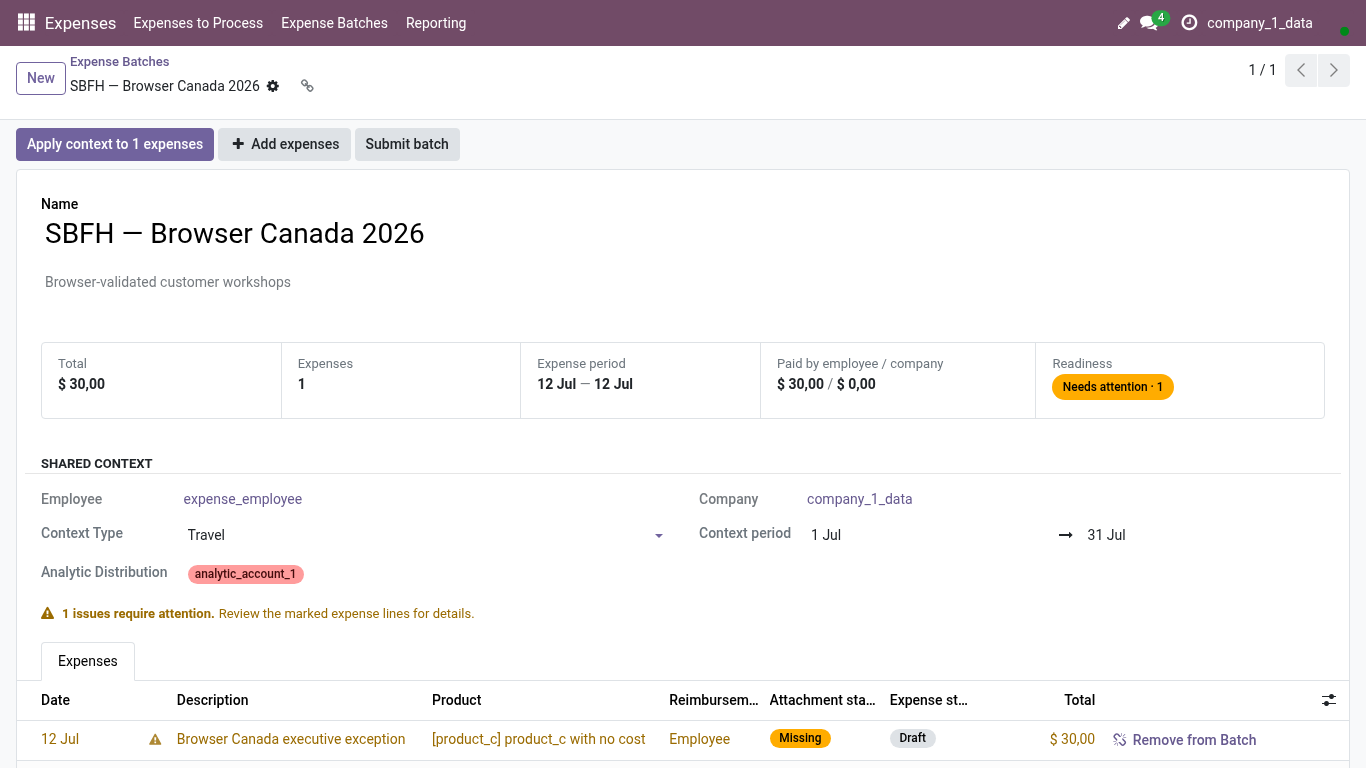
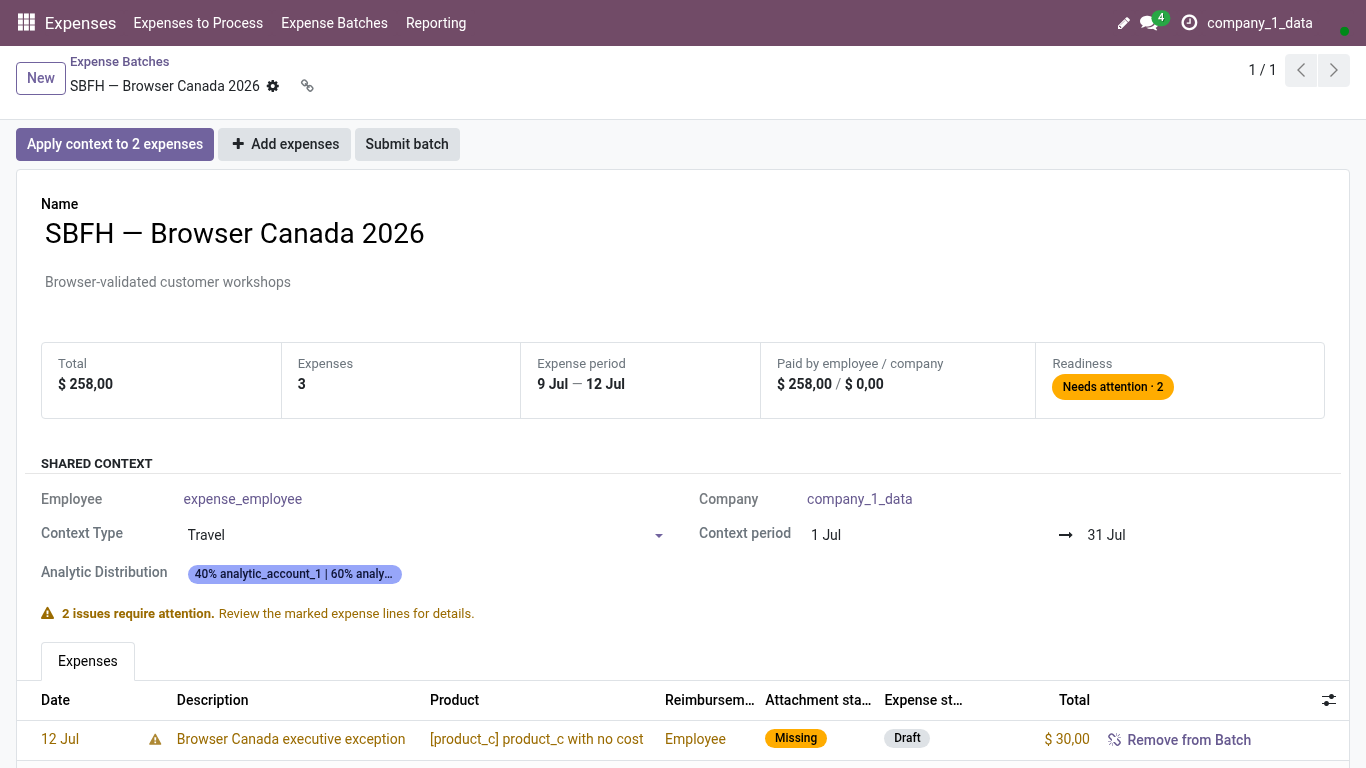
docs(expenses): Explain when batch context updates expenses
Make the illustrated French and English guides explicit about the preview and confirmation. Keep the previous guide address and point readers to the appropriate tested journey.

Validation:
- Six expense tests and both focused guides passed on the 169-module synthetic distribution. The French creation tour, documentation checks, native guide searches, desktop and mobile viewer, and runtime action inventory passed.

AI-generated commit

diff --git a/custom-addons/usl_expense_batch/static/tests/tours/expense_batch_tour.js b/custom-addons/usl_expense_batch/static/tests/tours/expense_batch_tour.js
@@ -146,6 +146,23 @@ registry.category("web_tour.tours").add("usl_expense_batch_focused_review", {
             content: "The context action explains its safe preview behavior",
             trigger:
                 `button[name='action_open_context_wizard'][data-tooltip*='${localized("Line-specific choices remain unchanged", "Les choix propres à une dépense restent inchangés")}']`,
+            run: "click",
+        },
+        {
+            id: "context_preview",
+            content: "The preview separates one change, one exception and one locked expense",
+            trigger: ".o_dialog .o_form_view:has([name='changed_count']:contains('1')):has([name='exception_count']:contains('1')):has([name='skipped_count']:contains('1'))",
+        },
+        {
+            id: "context_confirm",
+            content: "Confirm the update to the eligible draft",
+            trigger: ".o_dialog footer button[name='action_apply']",
+            run: "click",
+        },
+        {
+            id: "context_applied",
+            content: "After applying, the preview closes and the batch is visible again",
+            trigger: ".o_web_client:not(:has(.modal.show)) .o_usl_batch_summary",
         },
         {
             id: "exception",
@@ -161,7 +178,7 @@ registry.category("web_tour.tours").add("usl_expense_batch_focused_review", {
         },
         {
             id: "remove",
-            content: "Removal is the single explicit line action",
+            content: "A draft can be detached from the Batch",
             trigger:
                 ".o_field_widget[name='expense_ids'] button[name='action_return_from_batch']",
         },
@@ -300,10 +317,17 @@ registry.category("usl_docs.journeys").add("usl_expense_batch_focused_review", {
             screenshot: true,
         },
         analytics: {
-            text: "The analytic distribution of the Batch is shared by its lines. Change it here and every line that follows the Batch follows the change.",
+            text: "Save the new analytic distribution under **Shared context**. Its existing expenses keep their current values until you apply the context.",
         },
         context_action: {
-            text: "**Apply context** previews what would change before it changes anything; a line with its own explicit choice is left alone.",
+            text: "Choose **Apply context to … expenses** to open the preview.",
+        },
+        context_preview: {
+            text: "Review which drafts will change. Expenses already submitted or approved keep their values, as do drafts with their own allocation unless an authorized reviewer selects them for replacement.",
+            screenshot: true,
+        },
+        context_confirm: {
+            text: "Choose **Apply shared context** to update the eligible drafts.",
         },
         exception: {
             text: "A line that differs from the Batch is marked with a short helper saying what differs. Open the line to align it, or leave it when the difference is intended.",
@@ -312,7 +336,7 @@ registry.category("usl_docs.journeys").add("usl_expense_batch_focused_review", {
         },
         no_trash: { text: "Nothing in the list deletes an expense." },
         remove: {
-            text: "**Remove from Batch** is the only line action: the expense goes back to your work list unchanged, ready for another Batch.",
+            text: "Use **Remove from Batch** on a draft to return it to your expense list. You can add it to another batch.",
         },
     },
 });
@@ -373,7 +397,7 @@ const french = registry.category("usl_docs.journey_translations");
 
 french.add("usl_expense_batch_create_or_select.fr", {
     id: "regrouper-des-depenses-en-lot",
-    title: "Regrouper les dépenses d’un déplacement",
+    title: "Créer ou choisir un lot de dépenses",
     description: "Réunissez les dépenses d’un même déplacement dans un lot, même si certaines ont été réglées par la société et d’autres par le salarié.",
     app: "Dépenses",
     steps: {
@@ -409,8 +433,10 @@ french.add("usl_expense_batch_focused_review.fr", {
     app: "Dépenses",
     steps: {
         batch: "Dans **Dépenses > Lots de dépenses**, ouvrez votre lot. Le récapitulatif distingue les avances du salarié des frais de la société. L’onglet **Dépenses** en donne le détail.",
-        analytics: "Vérifiez la répartition analytique du lot. Une modification s’applique aux lignes qui reprennent cette répartition.",
-        context_action: "Avec **Appliquer le contexte**, consultez l’aperçu avant de confirmer. Une ligne avec une affectation particulière conserve votre choix, sauf si vous demandez son remplacement.",
+        analytics: "Dans **Contexte commun**, enregistrez la nouvelle répartition analytique. Les dépenses existantes gardent leurs valeurs tant que vous n’appliquez pas le contexte.",
+        context_action: "Cliquez sur **Appliquer le contexte à … notes de frais** pour ouvrir l’aperçu.",
+        context_preview: "Vérifiez quels brouillons vont changer. Les dépenses déjà soumises ou approuvées gardent leurs valeurs, comme les brouillons qui ont leur propre répartition, sauf si un responsable les sélectionne pour la remplacer.",
+        context_confirm: "Dans l’aperçu, confirmez l’application du contexte commun pour mettre à jour les brouillons concernés.",
         exception: "Un repère signale une ligne dont l’affectation diffère. Survolez-le pour lire la différence. Ouvrez la ligne pour la corriger si nécessaire.",
         no_trash: "Vous pouvez corriger la composition du lot en conservant les dépenses.",
         remove: "Cliquez sur **Retirer du lot** pour remettre la dépense dans votre liste. Elle pourra rejoindre un autre lot.",

diff --git a/custom-addons/usl_expense_batch/tests/test_expense_batch_tour.py b/custom-addons/usl_expense_batch/tests/test_expense_batch_tour.py
@@ -184,13 +184,44 @@ class TestExpenseBatchBrowser(TestExpenseCommon, HttpCase):
         )
         self.assertEqual(self.receipt_expense.payment_mode, "own_account")
 
+    def _prepare_focused_batch_review(self):
+        inherited = self.expenses[0]
+        approved = self.receipt_expense
+        employee = self.expense_user_employee
+        approved.with_user(employee).action_submit()
+        approved.with_user(self.expense_user_manager).action_approve()
+        self.assertEqual(approved.state, "approved")
+        batch = self.batch.with_user(employee)
+        batch.add_expenses((inherited | approved).ids)
+        batch.write({
+            "analytic_distribution": {
+                str(self.analytic_account_1.id): 40.0,
+                str(self.analytic_account_2.id): 60.0,
+            },
+        })
+        self.assertEqual(inherited.analytic_distribution, {str(self.analytic_account_1.id): 100.0})
+        self.assertEqual(inherited.batch_context_status, "stale")
+        preview = batch.preview_context_application()
+        self.assertEqual((preview["changed"], preview["exceptions"], preview["skipped"]), (1, 1, 1))
+        self.assertEqual(inherited.analytic_distribution, {str(self.analytic_account_1.id): 100.0})
+        return inherited, approved
+
+    def _assert_focused_batch_review_applied(self, inherited, approved):
+        self.assertEqual(inherited.analytic_distribution, self.batch.analytic_distribution)
+        self.assertEqual(inherited.batch_context_revision, self.batch.context_revision)
+        self.assertEqual(self.exception_expense.analytic_distribution, {str(self.analytic_account_2.id): 100.0})
+        self.assertEqual(approved.analytic_distribution, {str(self.analytic_account_1.id): 100.0})
+        self.assertEqual(approved.state, "approved")
+
     def test_focused_batch_review_tour(self):
+        inherited, approved = self._prepare_focused_batch_review()
         action = self.env.ref("usl_expense_batch.action_expense_batches")
         self.start_tour(
             f"/odoo/action-{action.id}/{self.batch.id}",
             "usl_expense_batch_focused_review",
             login=self.expense_user_employee.login,
         )
+        self._assert_focused_batch_review_applied(inherited, approved)
 
     def test_submit_approve_and_post_role_handoff_tour(self):
         action = self.env.ref("usl_expense_batch.action_expense_batches")

diff --git a/custom-addons/usl_expense_batch/tests/test_expense_batch_journeys.py b/custom-addons/usl_expense_batch/tests/test_expense_batch_journeys.py
@@ -48,12 +48,14 @@ class TestExpenseBatchJourneys(TestExpenseBatchBrowser, JourneyCase):
         self.assertEqual(self.receipt_expense.sudo().message_main_attachment_id, self.receipt_attachment)
 
     def test_review_a_batch_before_submitting(self):
+        inherited, approved = self._prepare_focused_batch_review()
         self.run_journey(
             "usl_expense_batch_focused_review",
             f"{BATCHES}/{self.batch.id}",
             login=self.expense_user_employee.login,
             screen=BATCHES,
         )
+        self._assert_focused_batch_review_applied(inherited, approved)
 
     def test_post_an_approved_batch(self):
         batch = self.lifecycle_batch

diff --git a/docs/users/how-to/expense-batches.md b/docs/users/how-to/expense-batches.md
@@ -1,10 +1,10 @@
 ---
-title: Regrouper et contrôler des dépenses dans un lot
+title: Comprendre le contexte et le suivi d’un lot
 type: how-to
-description: Créer ou choisir un lot, appliquer le contexte commun, contrôler les lignes signalées et soumettre ensemble.
+description: Comprendre le contexte partagé, les dépenses verrouillées, les payeurs et l’archivage d’un lot.
 lang: fr
 persona: employee
-app: Expenses
+app: Dépenses
 models:
   - usl.expense.batch
   - hr.expense
@@ -14,11 +14,16 @@ source:
 generated: false
 ---
 
-# Lots de dépenses
+# Comprendre le contexte et le suivi d’un lot
 
-[Créer un lot de dépenses pas à pas](regrouper-des-depenses-en-lot.md).
+Pour suivre les étapes, ouvrez les guides
+[Créer ou choisir un lot](regrouper-des-depenses-en-lot.md) et
+[Vérifier un lot avant de le soumettre](verifier-un-lot-avant-envoi.md).
+En anglais, consultez
+[Group related expenses](group-expenses-into-a-batch.md) et
+[Review a batch](review-a-batch-before-submitting.md).
 
-Un **lot de dépenses** regroupe des dépenses liées et leur applique un contexte
+Un **lot de dépenses** réunit des frais liés et permet de leur donner un contexte
 commun. Utilisez-le pour un voyage, une production, un événement, un projet ou
 une période cohérente. Une dépense isolée peut toujours suivre le circuit Odoo
 normal sans lot.
@@ -28,15 +33,7 @@ fournitures, kilométrage ou autre nature stable. Le **lot** décrit pourquoi le
 dépenses vont ensemble. Pour un voyage SBFH, le lot porte l’activité `SBFH
 prod` et l’Epic du voyage ; ne créez plus de catégorie propre au voyage.
 
-## Créer ou choisir un lot
-
-1. Ouvrez **Dépenses > Mes dépenses** et préparez les justificatifs.
-2. Sélectionnez les dépenses liées, puis **Ajouter à un lot de dépenses**.
-3. Choisissez un lot proposé ou créez-en un. Les propositions tiennent compte
-   de l’employé, de la société, des dates et de l’analytique.
-4. Vérifiez le motif, la période prévue, le total et les deux modes de paiement.
-5. Ajoutez les dépenses au lot. La soumission reste une action séparée et
-   explicite.
+## Employé, société et clôture du lot
 
 Un lot concerne toujours un employé et une société. Il peut mélanger les
 dépenses payées par l’employé et celles payées par la société.
@@ -50,8 +47,8 @@ dépenses ; vous pourrez le rouvrir si nécessaire.
 
 L’analytique et les informations du lot restent modifiables dans **Contexte
 commun** tant que le lot est ouvert. Un responsable peut aussi définir un
-compte de charge commun. Sélectionnez **Appliquer le contexte commun** pour
-prévisualiser les changements avant de les confirmer. Seules les dépenses
+compte de charge commun. Sélectionnez **Appliquer le contexte à … notes de frais** pour
+prévisualiser les changements, puis confirmez dans la fenêtre. Seules les dépenses
 brouillon peuvent recevoir ce contexte : les dépenses approuvées ou
 comptabilisées restent inchangées.
 
@@ -72,22 +69,12 @@ signalées comme à actualiser. Réappliquer le même contexte est sans effet
 supplémentaire. Retirer un brouillon du lot ne supprime jamais la dépense et ne
 supprime pas une correction explicite.
 
-## Contrôler et corriger
+## Corriger une dépense
 
-La fiche montre d’abord le motif, le total, le nombre de dépenses et de
-justificatifs, les dates réelles, la répartition par payeur et la préparation.
-La liste conserve la catégorie, le payeur, le statut, le montant et l’accès à
-chaque dépense.
-
-- **Retirer du lot** détache seulement un brouillon ;
-- **Renvoyer pour correction** remet une dépense soumise ou approuvée en
-  brouillon et la détache ;
-- un justificatif manquant ou un doublon possible apparaît dans l’aide de la
-  ligne ;
-- une date en dehors de la période prévue déclenche un avertissement, sans
-  empêcher l’ajout, la soumission, l’approbation ou la comptabilisation ;
-- les détails de rapprochement et l’historique sont dans **Comptabilité et
-  historique**.
+**Retirer du lot** détache un brouillon sans le supprimer. **Renvoyer pour
+correction** remet une dépense soumise ou approuvée en brouillon et la détache.
+Une date hors de la période prévue déclenche un avertissement. Les détails de
+rapprochement restent dans **Comptabilité et historique**.
 
 ## Soumettre et comptabiliser
 

diff --git a/docs/users/how-to/verifier-un-lot-avant-envoi.md b/docs/users/how-to/verifier-un-lot-avant-envoi.md
@@ -14,8 +14,9 @@ journey: verifier-un-lot-avant-envoi
 tour: usl_expense_batch_focused_review
 source:
   - custom-addons/usl_expense_batch/tests/test_expense_batch_journeys.py
-screenshot_01-batch_png: 21c93df064d3daf20ff59a9b3c53cd71f3fd9a22b39d2a8845c687250bbc6e5c
-screenshot_02-exception_png: 1517f9d60792b8d0e0abdbf4daaad763be3a45411b30e4671aa993b81886bfcc
+screenshot_01-batch_png: 60df92e7de622143a6e9cc79d924bf672e8a8f1900d1cfa628be707f66bfaa48
+screenshot_02-context_preview_png: 29446070d4355626ae35b235bb0be33cb6bc4593b5fe77e56121b1816e89d2e7
+screenshot_03-exception_png: 63b369e645a4d90d9f093c9972746dc2c7b73f5905a7b09900cc59d82e0fa50c
 generated: true
 ---
 
@@ -29,14 +30,20 @@ Contrôlez les montants par payeur et repérez les lignes dont la répartition a
 
    ![Dans Dépenses Lots de dépenses, ouvrez votre lot](verifier-un-lot-avant-envoi/01-batch.png)
 
-2. Vérifiez la répartition analytique du lot. Une modification s’applique aux lignes qui reprennent cette répartition.
+2. Dans **Contexte commun**, enregistrez la nouvelle répartition analytique. Les dépenses existantes gardent leurs valeurs tant que vous n’appliquez pas le contexte.
 
-3. Avec **Appliquer le contexte**, consultez l’aperçu avant de confirmer. Une ligne avec une affectation particulière conserve votre choix, sauf si vous demandez son remplacement.
+3. Cliquez sur **Appliquer le contexte à … notes de frais** pour ouvrir l’aperçu.
 
-4. Un repère signale une ligne dont l’affectation diffère. Survolez-le pour lire la différence. Ouvrez la ligne pour la corriger si nécessaire.
+4. Vérifiez quels brouillons vont changer. Les dépenses déjà soumises ou approuvées gardent leurs valeurs, comme les brouillons qui ont leur propre répartition, sauf si un responsable les sélectionne pour la remplacer.
 
-   ![Un repère signale une ligne dont l’affectation diffère](verifier-un-lot-avant-envoi/02-exception.png)
+   ![Vérifiez quels brouillons vont changer](verifier-un-lot-avant-envoi/02-context_preview.png)
 
-5. Vous pouvez corriger la composition du lot en conservant les dépenses.
+5. Dans l’aperçu, confirmez l’application du contexte commun pour mettre à jour les brouillons concernés.
 
-6. Cliquez sur **Retirer du lot** pour remettre la dépense dans votre liste. Elle pourra rejoindre un autre lot.
+6. Un repère signale une ligne dont l’affectation diffère. Survolez-le pour lire la différence. Ouvrez la ligne pour la corriger si nécessaire.
+
+   ![Un repère signale une ligne dont l’affectation diffère](verifier-un-lot-avant-envoi/03-exception.png)
+
+7. Vous pouvez corriger la composition du lot en conservant les dépenses.
+
+8. Cliquez sur **Retirer du lot** pour remettre la dépense dans votre liste. Elle pourra rejoindre un autre lot.

diff --git a/docs/users/how-to/review-a-batch-before-submitting.md b/docs/users/how-to/review-a-batch-before-submitting.md
@@ -13,8 +13,9 @@ journey: review-a-batch-before-submitting
 tour: usl_expense_batch_focused_review
 source:
   - custom-addons/usl_expense_batch/tests/test_expense_batch_journeys.py
-screenshot_01-batch_png: 3457b3d35bce7b1e5d3604ad3a4aa12f3179dfbea978087b120baf2e79184ac0
-screenshot_02-exception_png: b4a45c3c3a1408d65ac9e7fb25a1e6ff6a722f5cfe482e24d9c9c75ab191194b
+screenshot_01-batch_png: a1e25c5634fed384e4f9bf68c15109db4dbf7e813309a963a70017ee4fb03d2d
+screenshot_02-context_preview_png: 27b97dd0fa2fc023c81a9626b6b54248038fadc29989c131930400ddce8c412c
+screenshot_03-exception_png: e44812f3a4357f95f81448d03ce3c21afaa5ce86edd9c21846f74af5b15161df
 generated: true
 ---
 
@@ -28,14 +29,20 @@ Read the Batch summary, fix the shared analytics once, and deal with a line that
 
    ![Open Expenses Expense Batches and choose your Batch](review-a-batch-before-submitting/01-batch.png)
 
-2. The analytic distribution of the Batch is shared by its lines. Change it here and every line that follows the Batch follows the change.
+2. Save the new analytic distribution under **Shared context**. Its existing expenses keep their current values until you apply the context.
 
-3. **Apply context** previews what would change before it changes anything; a line with its own explicit choice is left alone.
+3. Choose **Apply context to … expenses** to open the preview.
 
-4. A line that differs from the Batch is marked with a short helper saying what differs. Open the line to align it, or leave it when the difference is intended.
+4. Review which drafts will change. Expenses already submitted or approved keep their values, as do drafts with their own allocation unless an authorized reviewer selects them for replacement.
 
-   ![A line that differs from the Batch is marked with a short helper saying what differs](review-a-batch-before-submitting/02-exception.png)
+   ![Review which drafts will change](review-a-batch-before-submitting/02-context_preview.png)
 
-5. Nothing in the list deletes an expense.
+5. Choose **Apply shared context** to update the eligible drafts.
 
-6. **Remove from Batch** is the only line action: the expense goes back to your work list unchanged, ready for another Batch.
+6. A line that differs from the Batch is marked with a short helper saying what differs. Open the line to align it, or leave it when the difference is intended.
+
+   ![A line that differs from the Batch is marked with a short helper saying what differs](review-a-batch-before-submitting/03-exception.png)
+
+7. Nothing in the list deletes an expense.
+
+8. Use **Remove from Batch** on a draft to return it to your expense list. You can add it to another batch.

diff --git a/docs/users/how-to/regrouper-des-depenses-en-lot.md b/docs/users/how-to/regrouper-des-depenses-en-lot.md
@@ -1,5 +1,5 @@
 ---
-title: Regrouper les dépenses d’un déplacement
+title: Créer ou choisir un lot de dépenses
 type: how-to
 description: Réunissez les dépenses d’un même déplacement dans un lot, même si certaines ont été réglées par la société et d’autres par le salarié.
 lang: fr
@@ -22,7 +22,7 @@ generated: true
 
 <!-- Generated from the journey named in the front matter. Change the test, then run `make docs`. -->
 
-# Regrouper les dépenses d’un déplacement
+# Créer ou choisir un lot de dépenses
 
 Réunissez les dépenses d’un même déplacement dans un lot, même si certaines ont été réglées par la société et d’autres par le salarié.
 
